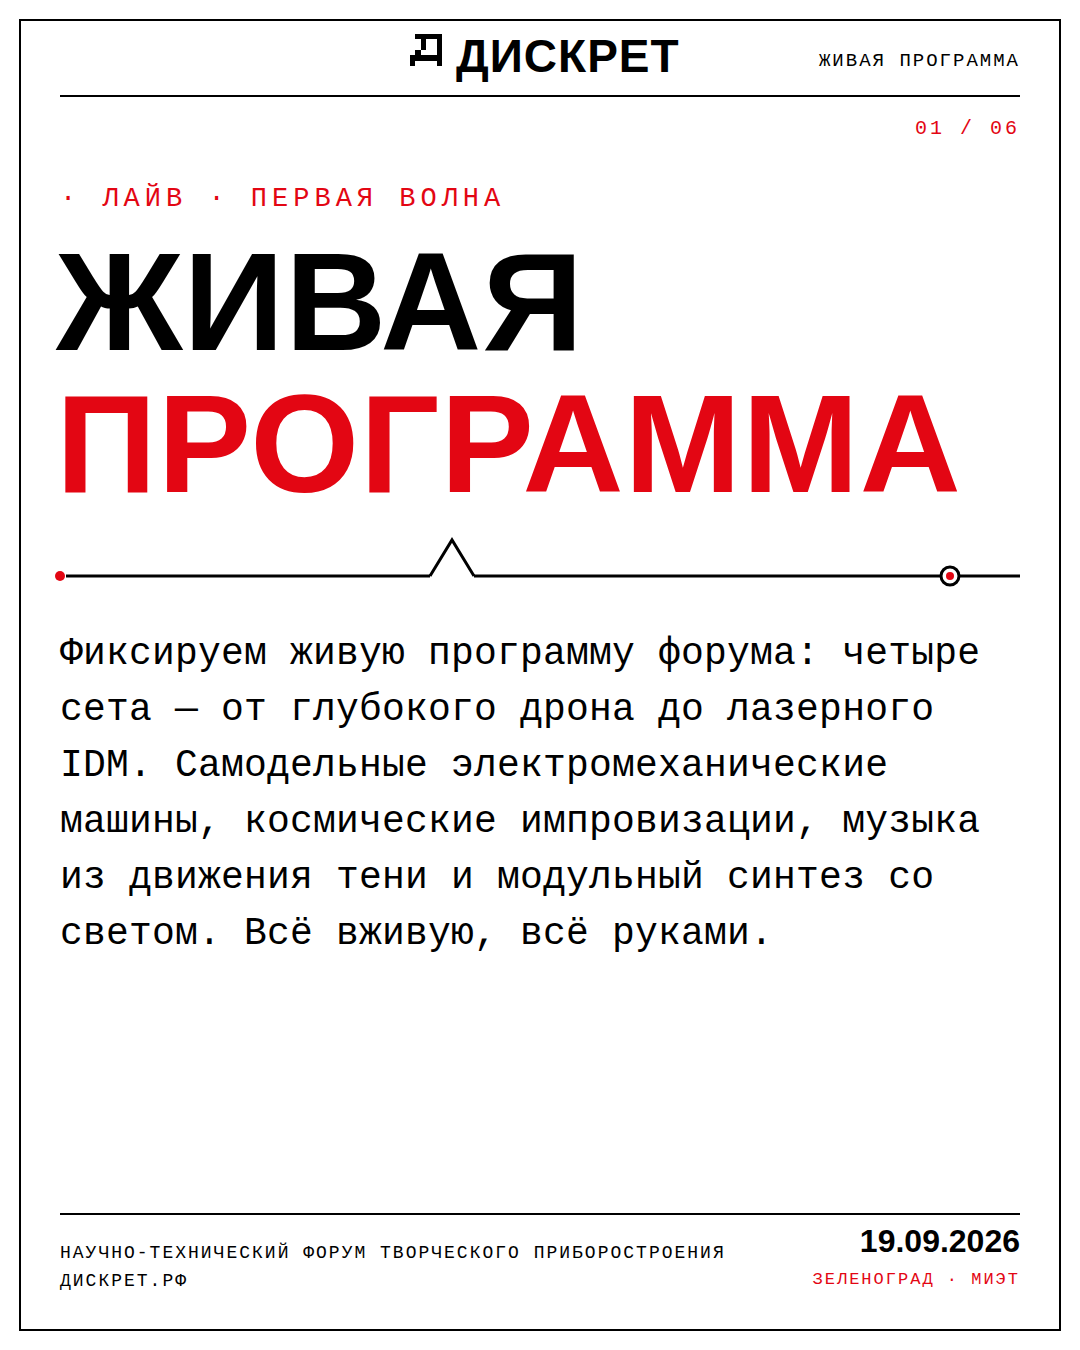
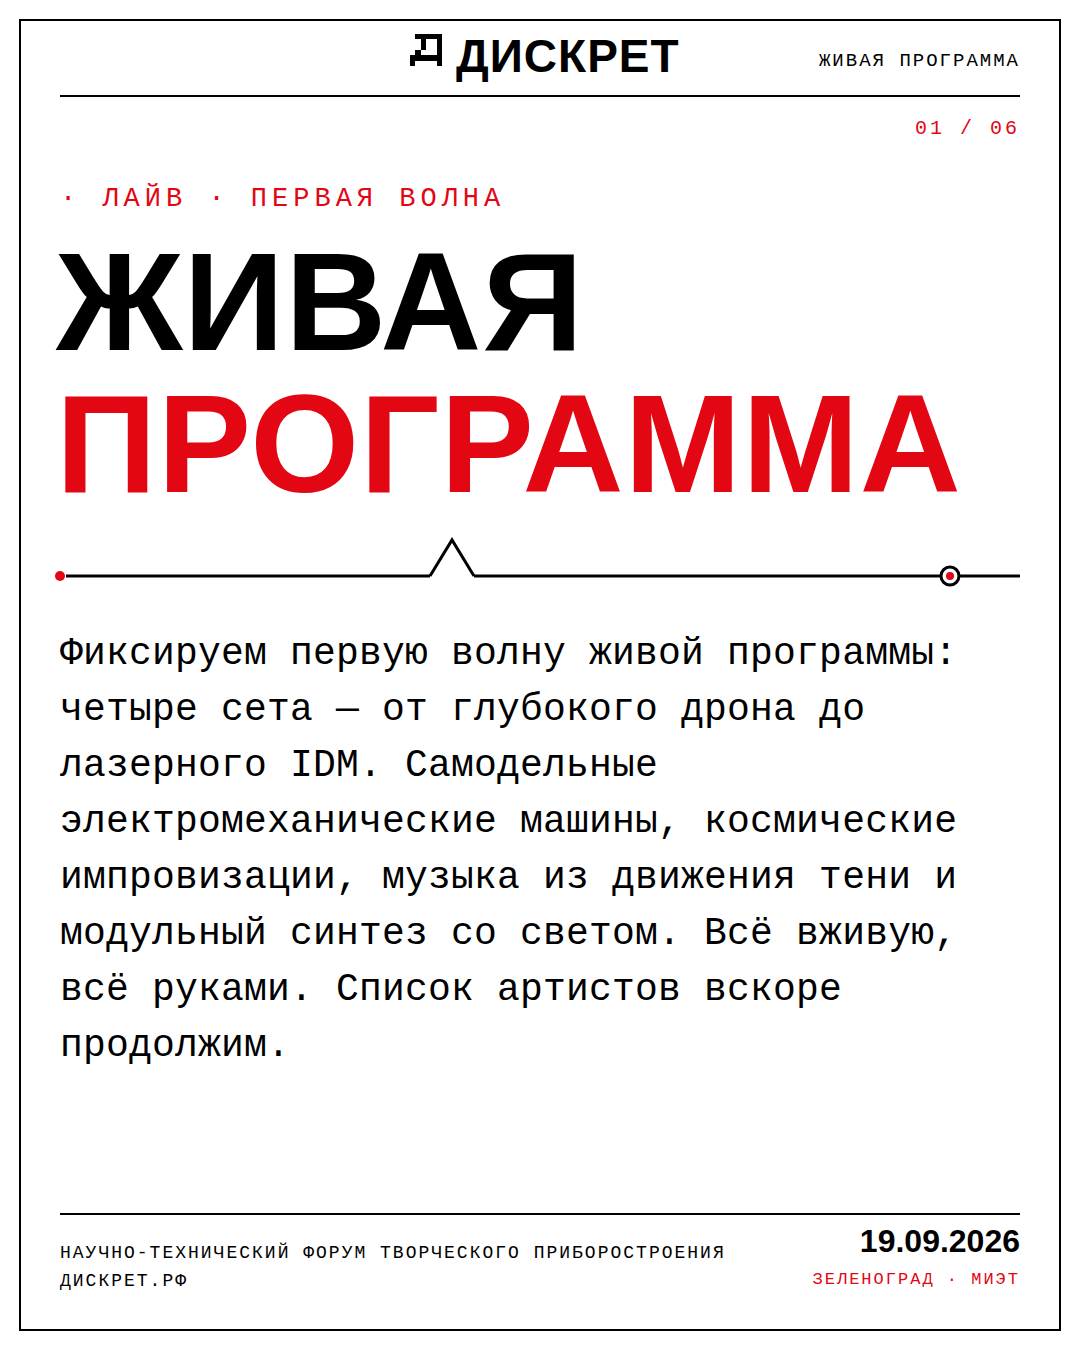
branding/live: уточнение — первая волна артистов, список продолжится
- live-01: «фиксируем первую волну живой программы… список артистов вскоре
  продолжим»; live-06: «это первая волна артистов — вскоре продолжим список»
- Тексты постов обновлены соответственно

Claude-Session: https://claude.ai/code/session_01J7cakNvVwscKzgnd8yf78u

Changed region(s): [[0.0611, 0.4667, 0.9167, 0.8089]]

diff --git a/branding/press/live-wave.md b/branding/press/live-wave.md
@@ -8,15 +8,16 @@
 
 ## 01 · Вступительный (live-01)
 
-**Живая программа ДИСКРЕТА — первая волна.**
+**Живая программа ДИСКРЕТА — первая волна артистов.**
 
-Товарищи, фиксируем живую программу форума: четыре сета — от глубокого
+Товарищи, фиксируем первую волну живой программы: четыре сета — от глубокого
 дрона до лазерного IDM. Самодельные электромеханические машины, космические
 импровизации, музыка из движения тени и модульный синтез со светом.
 
 Каждый сет — это прибор, включённый на ваших глазах. Всё вживую, всё руками.
 
-Знакомим с артистами — листайте и следите за сводками.
+Это только первая волна — вскоре продолжим список. Знакомим с артистами:
+листайте и следите за сводками.
 
 ---
 
@@ -75,11 +76,12 @@ youtube.com/@dr.spacekir
 
 ## 06 · Закрывающий (live-06)
 
-**Это только начало живой программы.**
+**Это первая волна артистов — список продолжим.**
 
-Список будет расти вместе с волнами участников. Приходите слушать приборы в
-деле: каждый сет — устройство, включённое на ваших глазах, и человек,
-который знает его до последней детали.
+Живая программа будет расти вместе с волнами участников: впереди новые
+имена и новые сеты. Приходите слушать приборы в деле: каждый сет —
+устройство, включённое на ваших глазах, и человек, который знает его до
+последней детали.
 
 До встречи на сцене. 19.09.2026 · Зеленоград · МИЭТ · дискрет.рф
 
